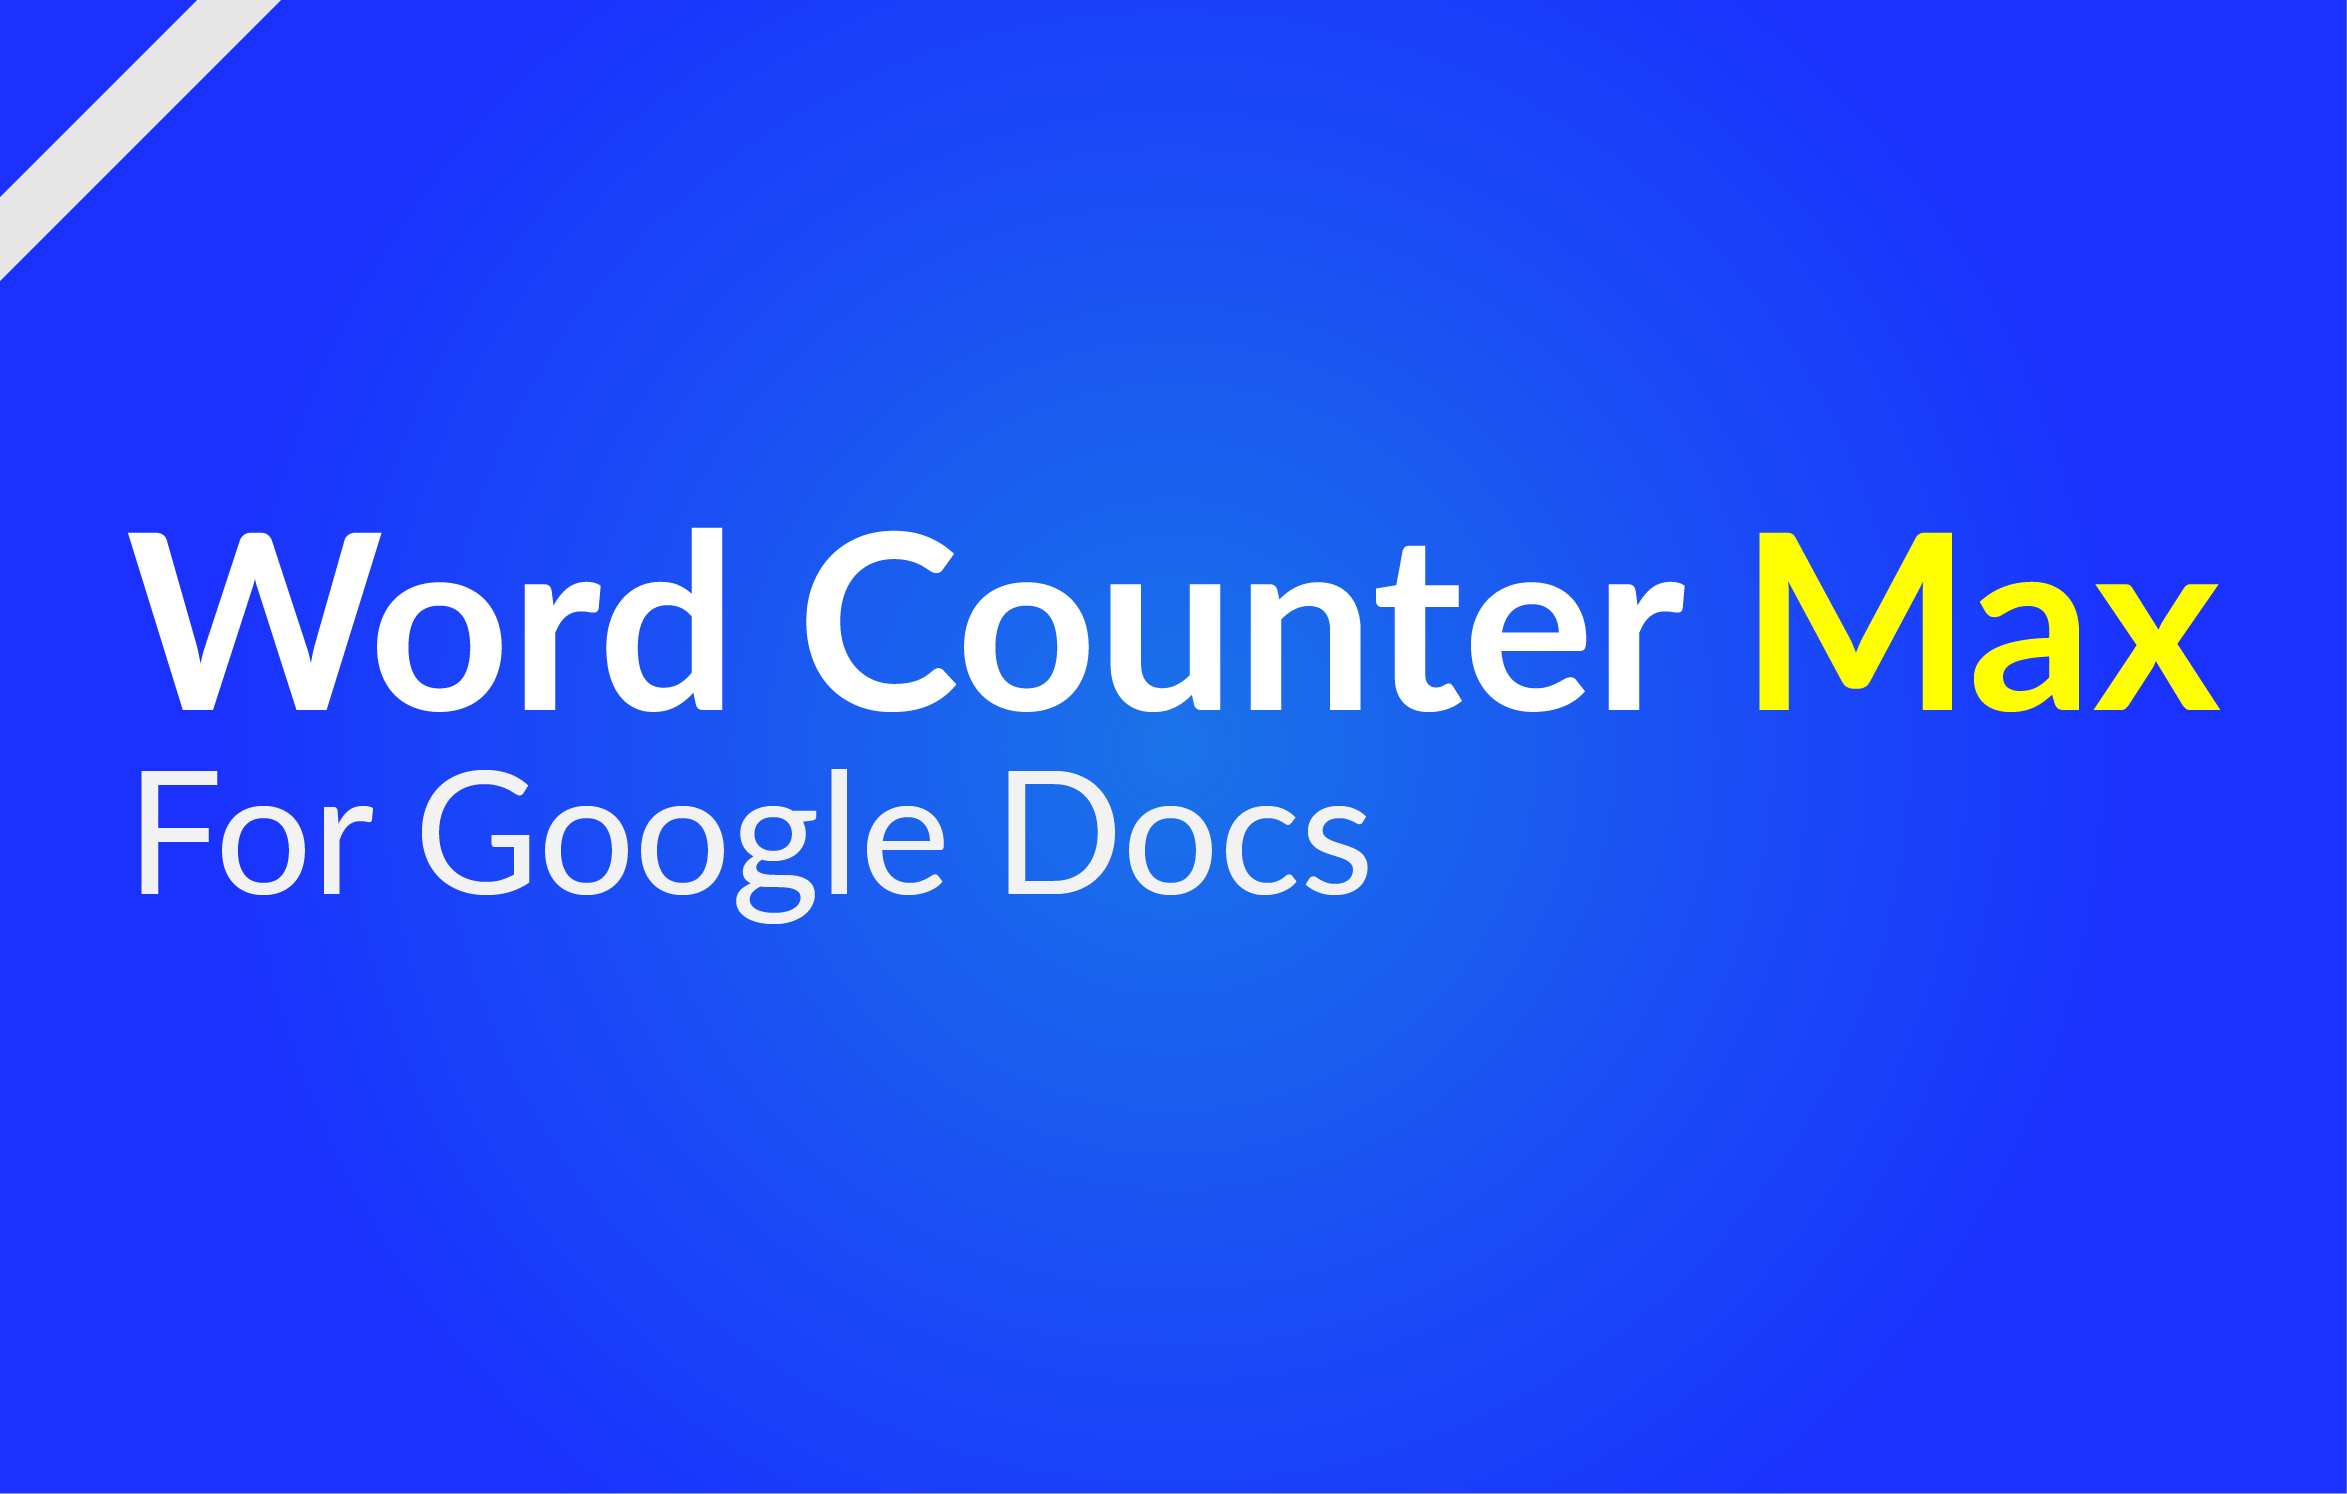
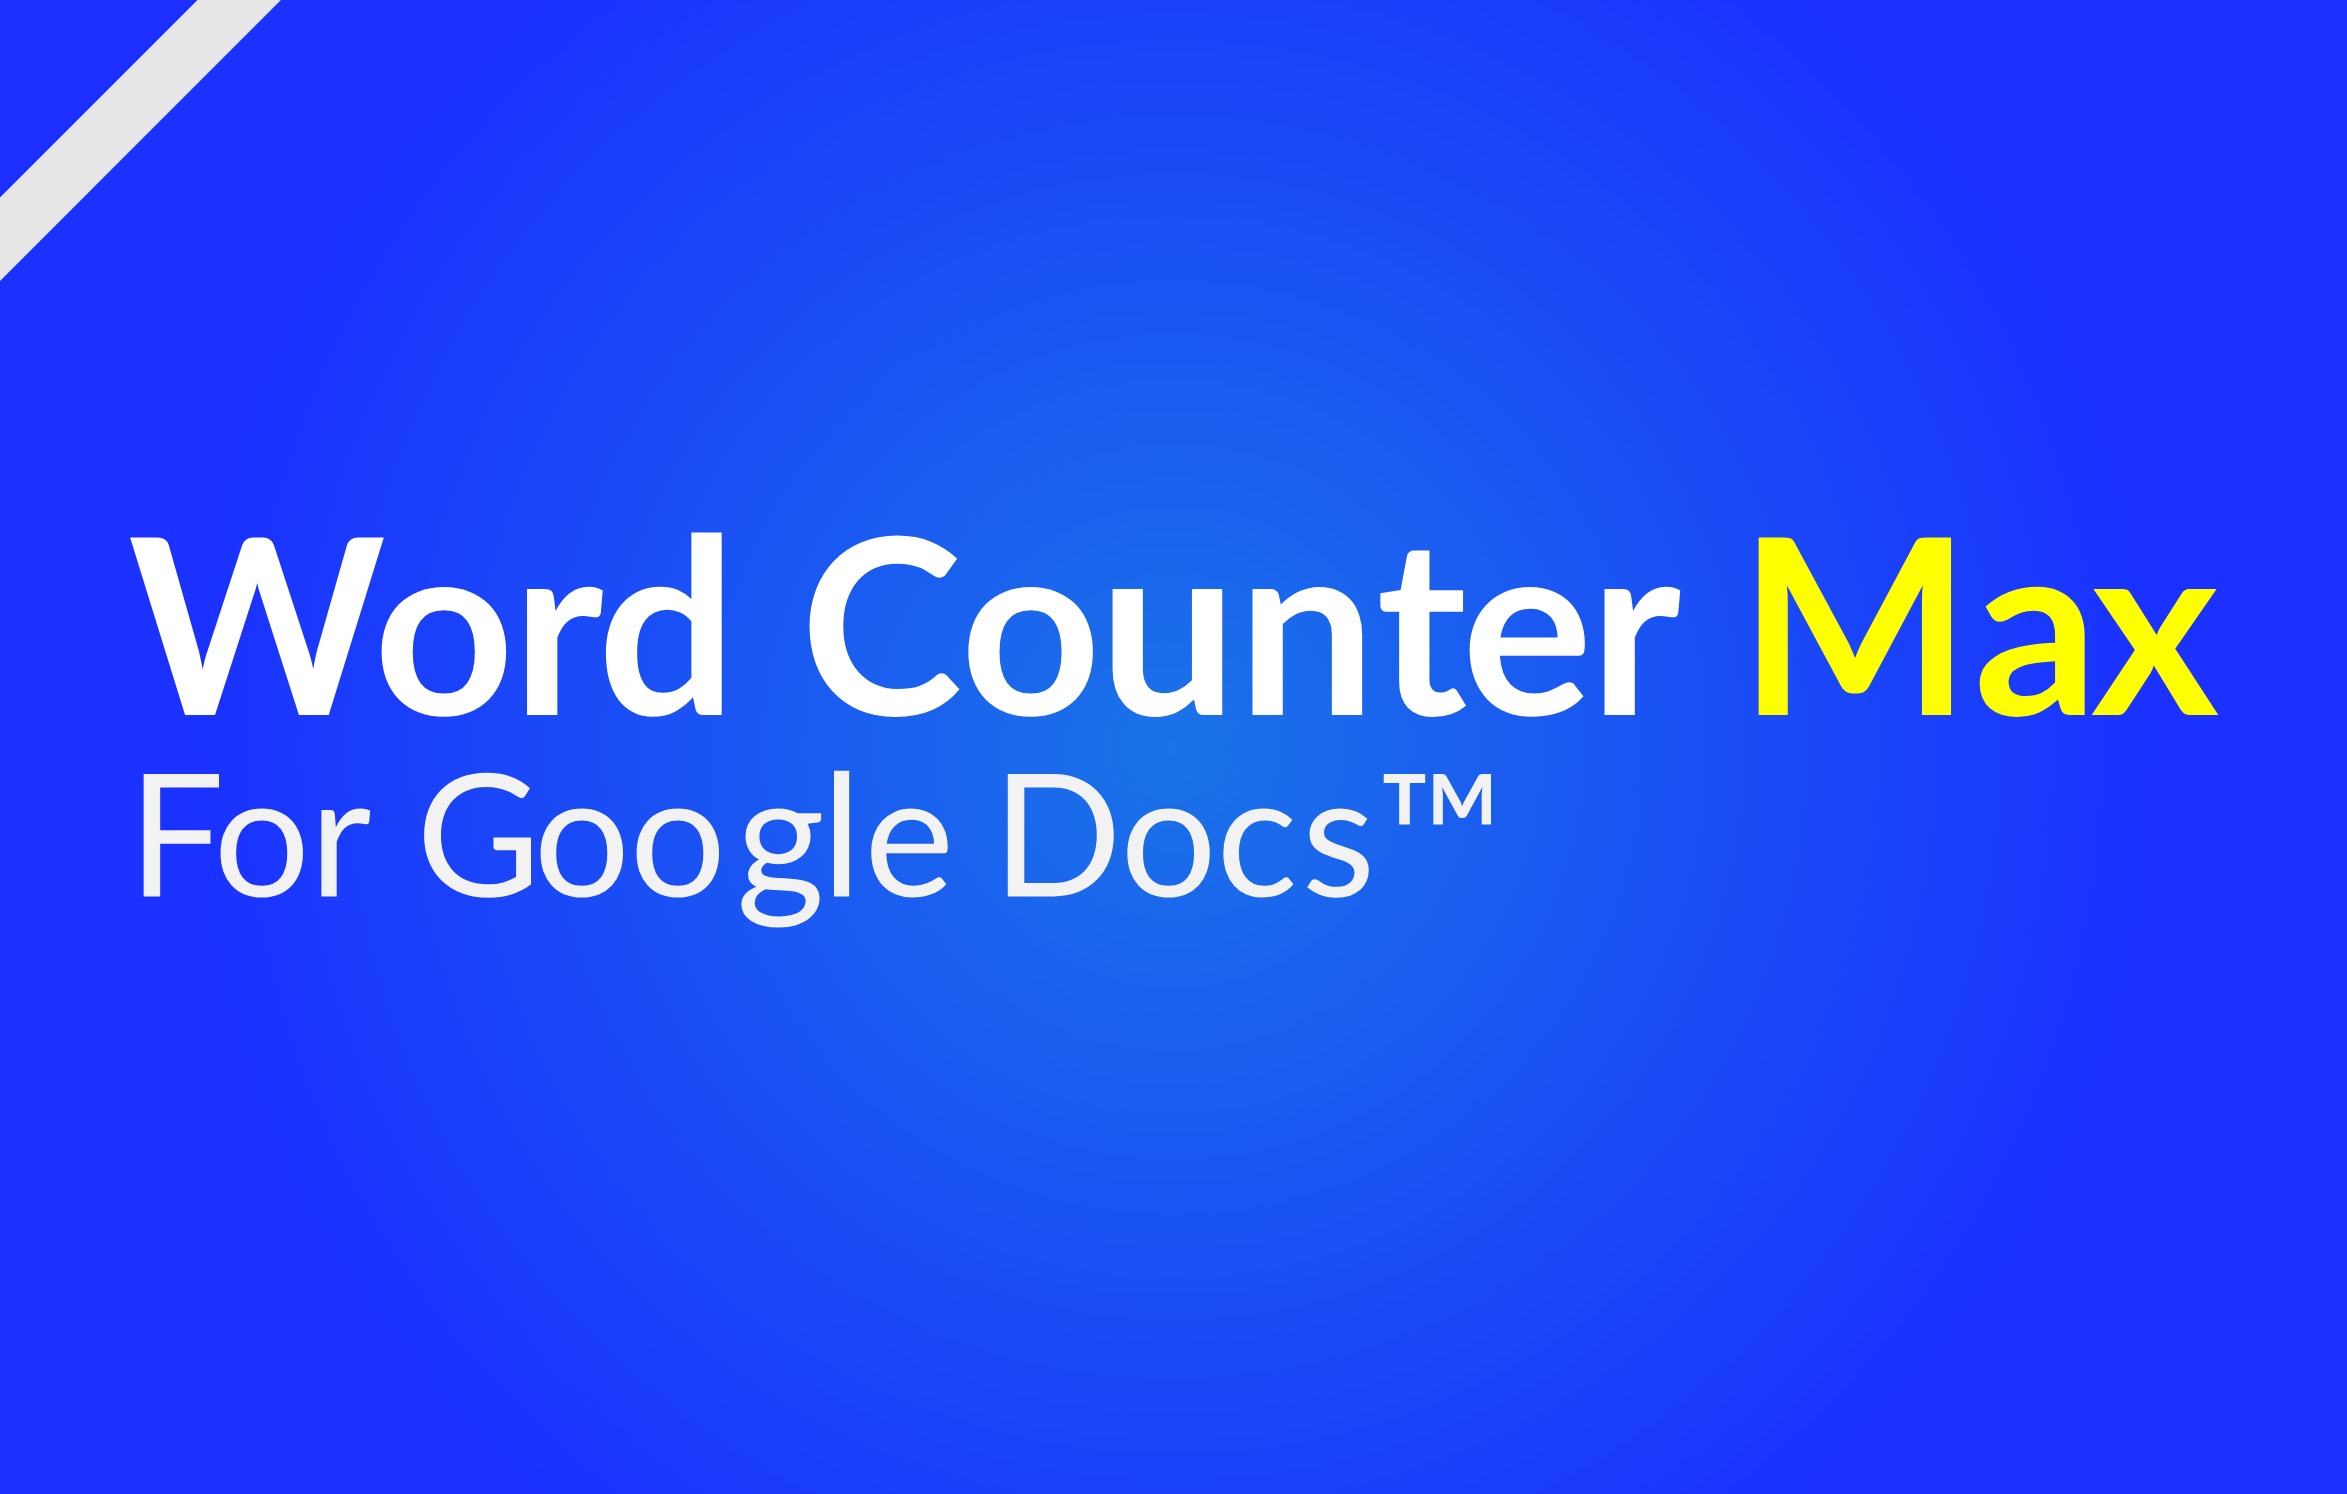
updated project info

diff --git a/content/_index.md b/content/_index.md
@@ -104,7 +104,7 @@ layout: hextra-home
 
   {{< project-card
         link="https://workspace.google.com/marketplace/app/word_counter_max_for_google_docs/364683295233"
-        title="Word Counter Max for Google Docs"
+        title="Word Counter Max for Google Docs™"
         subtitle="A Google Workspace Editor Addon. Obtain detailed word count with the possibility of omitting text between parenthesis, tables, certain text and even set targets for motivation."
         codeTags="Javascript"
         otherTags=""

diff --git a/content/projects/index.md b/content/projects/index.md
@@ -93,7 +93,7 @@ layout: wide
 
   {{< project-card
         link="https://workspace.google.com/marketplace/app/word_counter_max_for_google_docs/364683295233"
-        title="Word Counter Max for Google Docs"
+        title="Word Counter Max for Google Docs™"
         subtitle="A Google Workspace Editor Addon. Obtain detailed word count with the possibility of omitting text between parenthesis, tables, certain text and even set targets for motivation."
         codeTags="Javascript"
         otherTags=""
